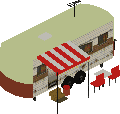
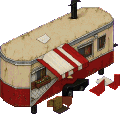
Builder 98: karavan 3 z Groku, TODO k obrazkum budov
Co bylo spatne: karavan 3 mel na mape jen render (cekal ve fronte) a TODO
nerikalo, ktere budovy zustaly renderem a proc.
Co je ted: karavan 3 z Groku (dvojita naprava, markyza, stolek); v TODO
ktere obrazky jsou z Groku, ktere z renderu, a co zbyva (druha varianta b).

diff --git a/TODO.md b/TODO.md
@@ -171,8 +171,11 @@ start, collect good ratings; pay to delete bad reviews".
   with shadows, dominoes, buildings in parts, bulldozing pressed flat, hum, clicks and
   booms, guests jumping aside, the warden pushed off; co-op through `from_peer`; looked at
   from the camp (`tools/god_shots.tscn`)
-- [ ] Grok's repaints of the rest of the buildings (the queue; until then the 3D render
-  itself, palette-snapped): choose a or b for each and `iso_views.py cut`
+- [x] Grok's repaints of the buildings, each looked at against its render: kept where they
+  match the model; the bench, the gnomes, the flagpole, the lamp, the playground and the
+  corn stand stay the render (palette-snapped), Grok's went wrong (`builder_art.sh` says how)
+- [ ] A second Grok variant (b) to choose from for the buildings that only had a (most of
+  them, to get through the shared queue), and new rows for the six kept as renders
 - [x] The map's little people in frames (Grok gst_*, cut to `peeps/<kind>_<0-7>.png`), the
   faces (`react/`), the building site in its three stages (`site/stage_<0-2>.png`), the
   little yellow bulldozer and its dust (`site/dozer_*`, `dust_*`), the dog (`life/dog_*`),
